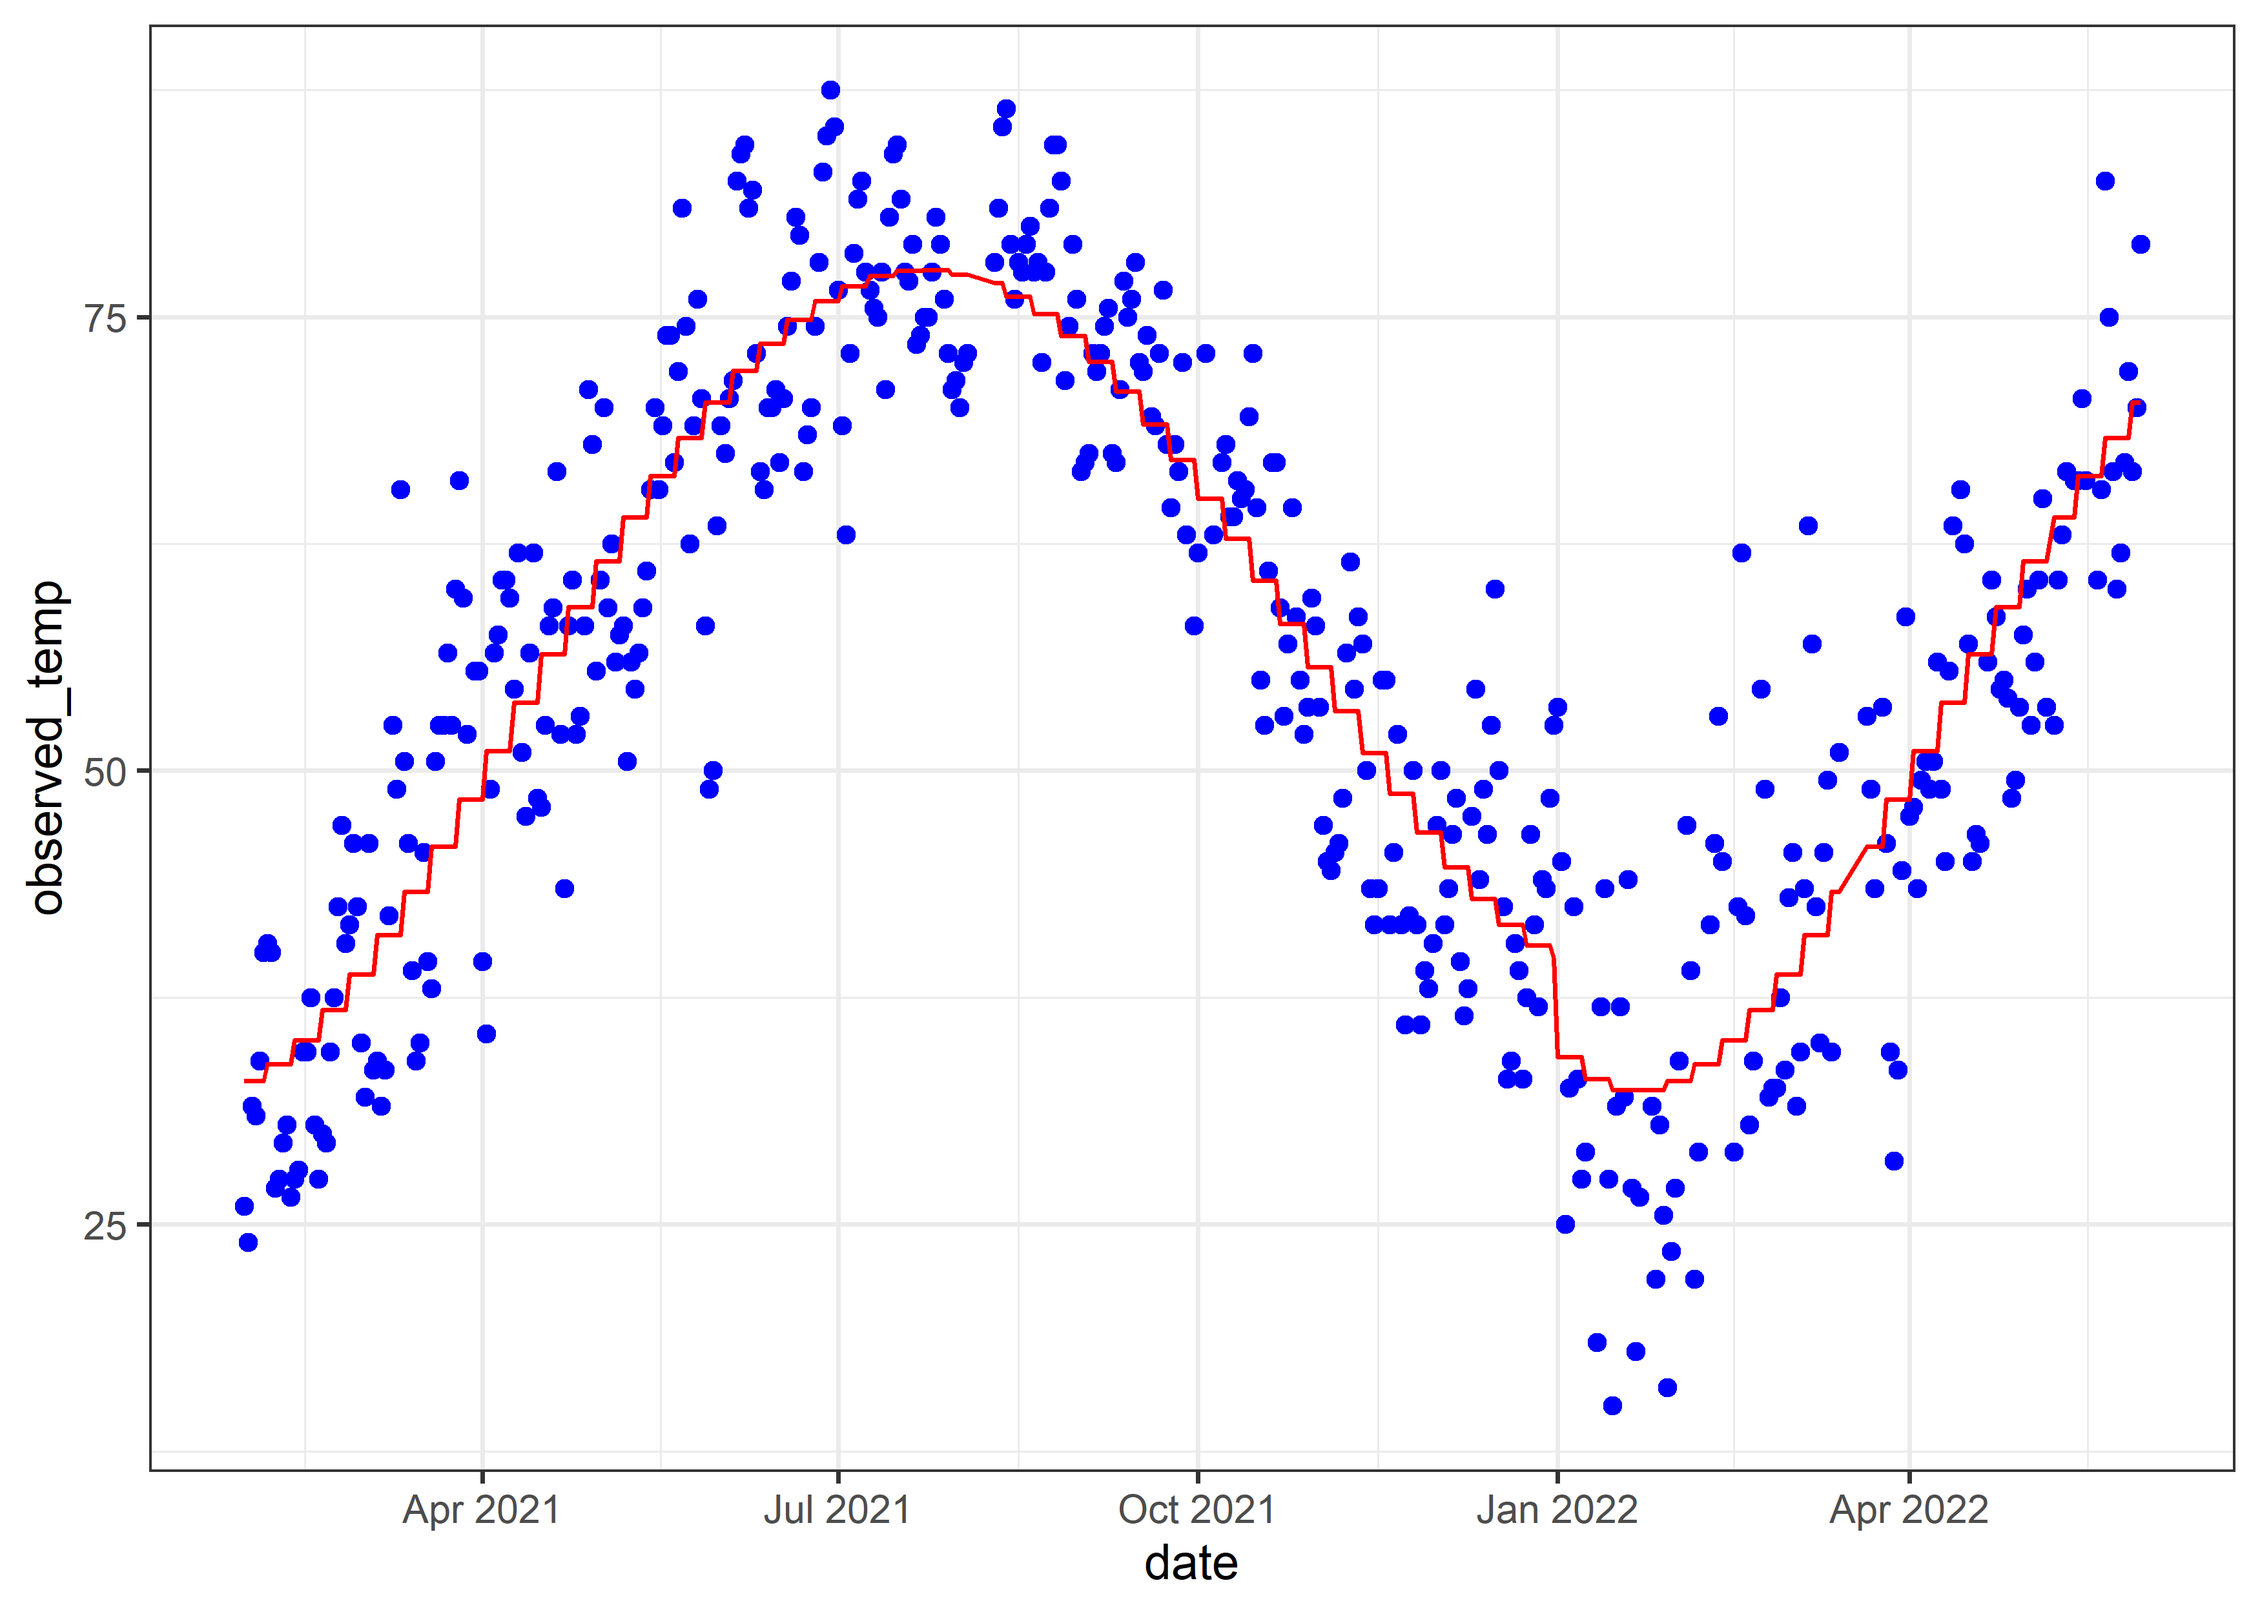
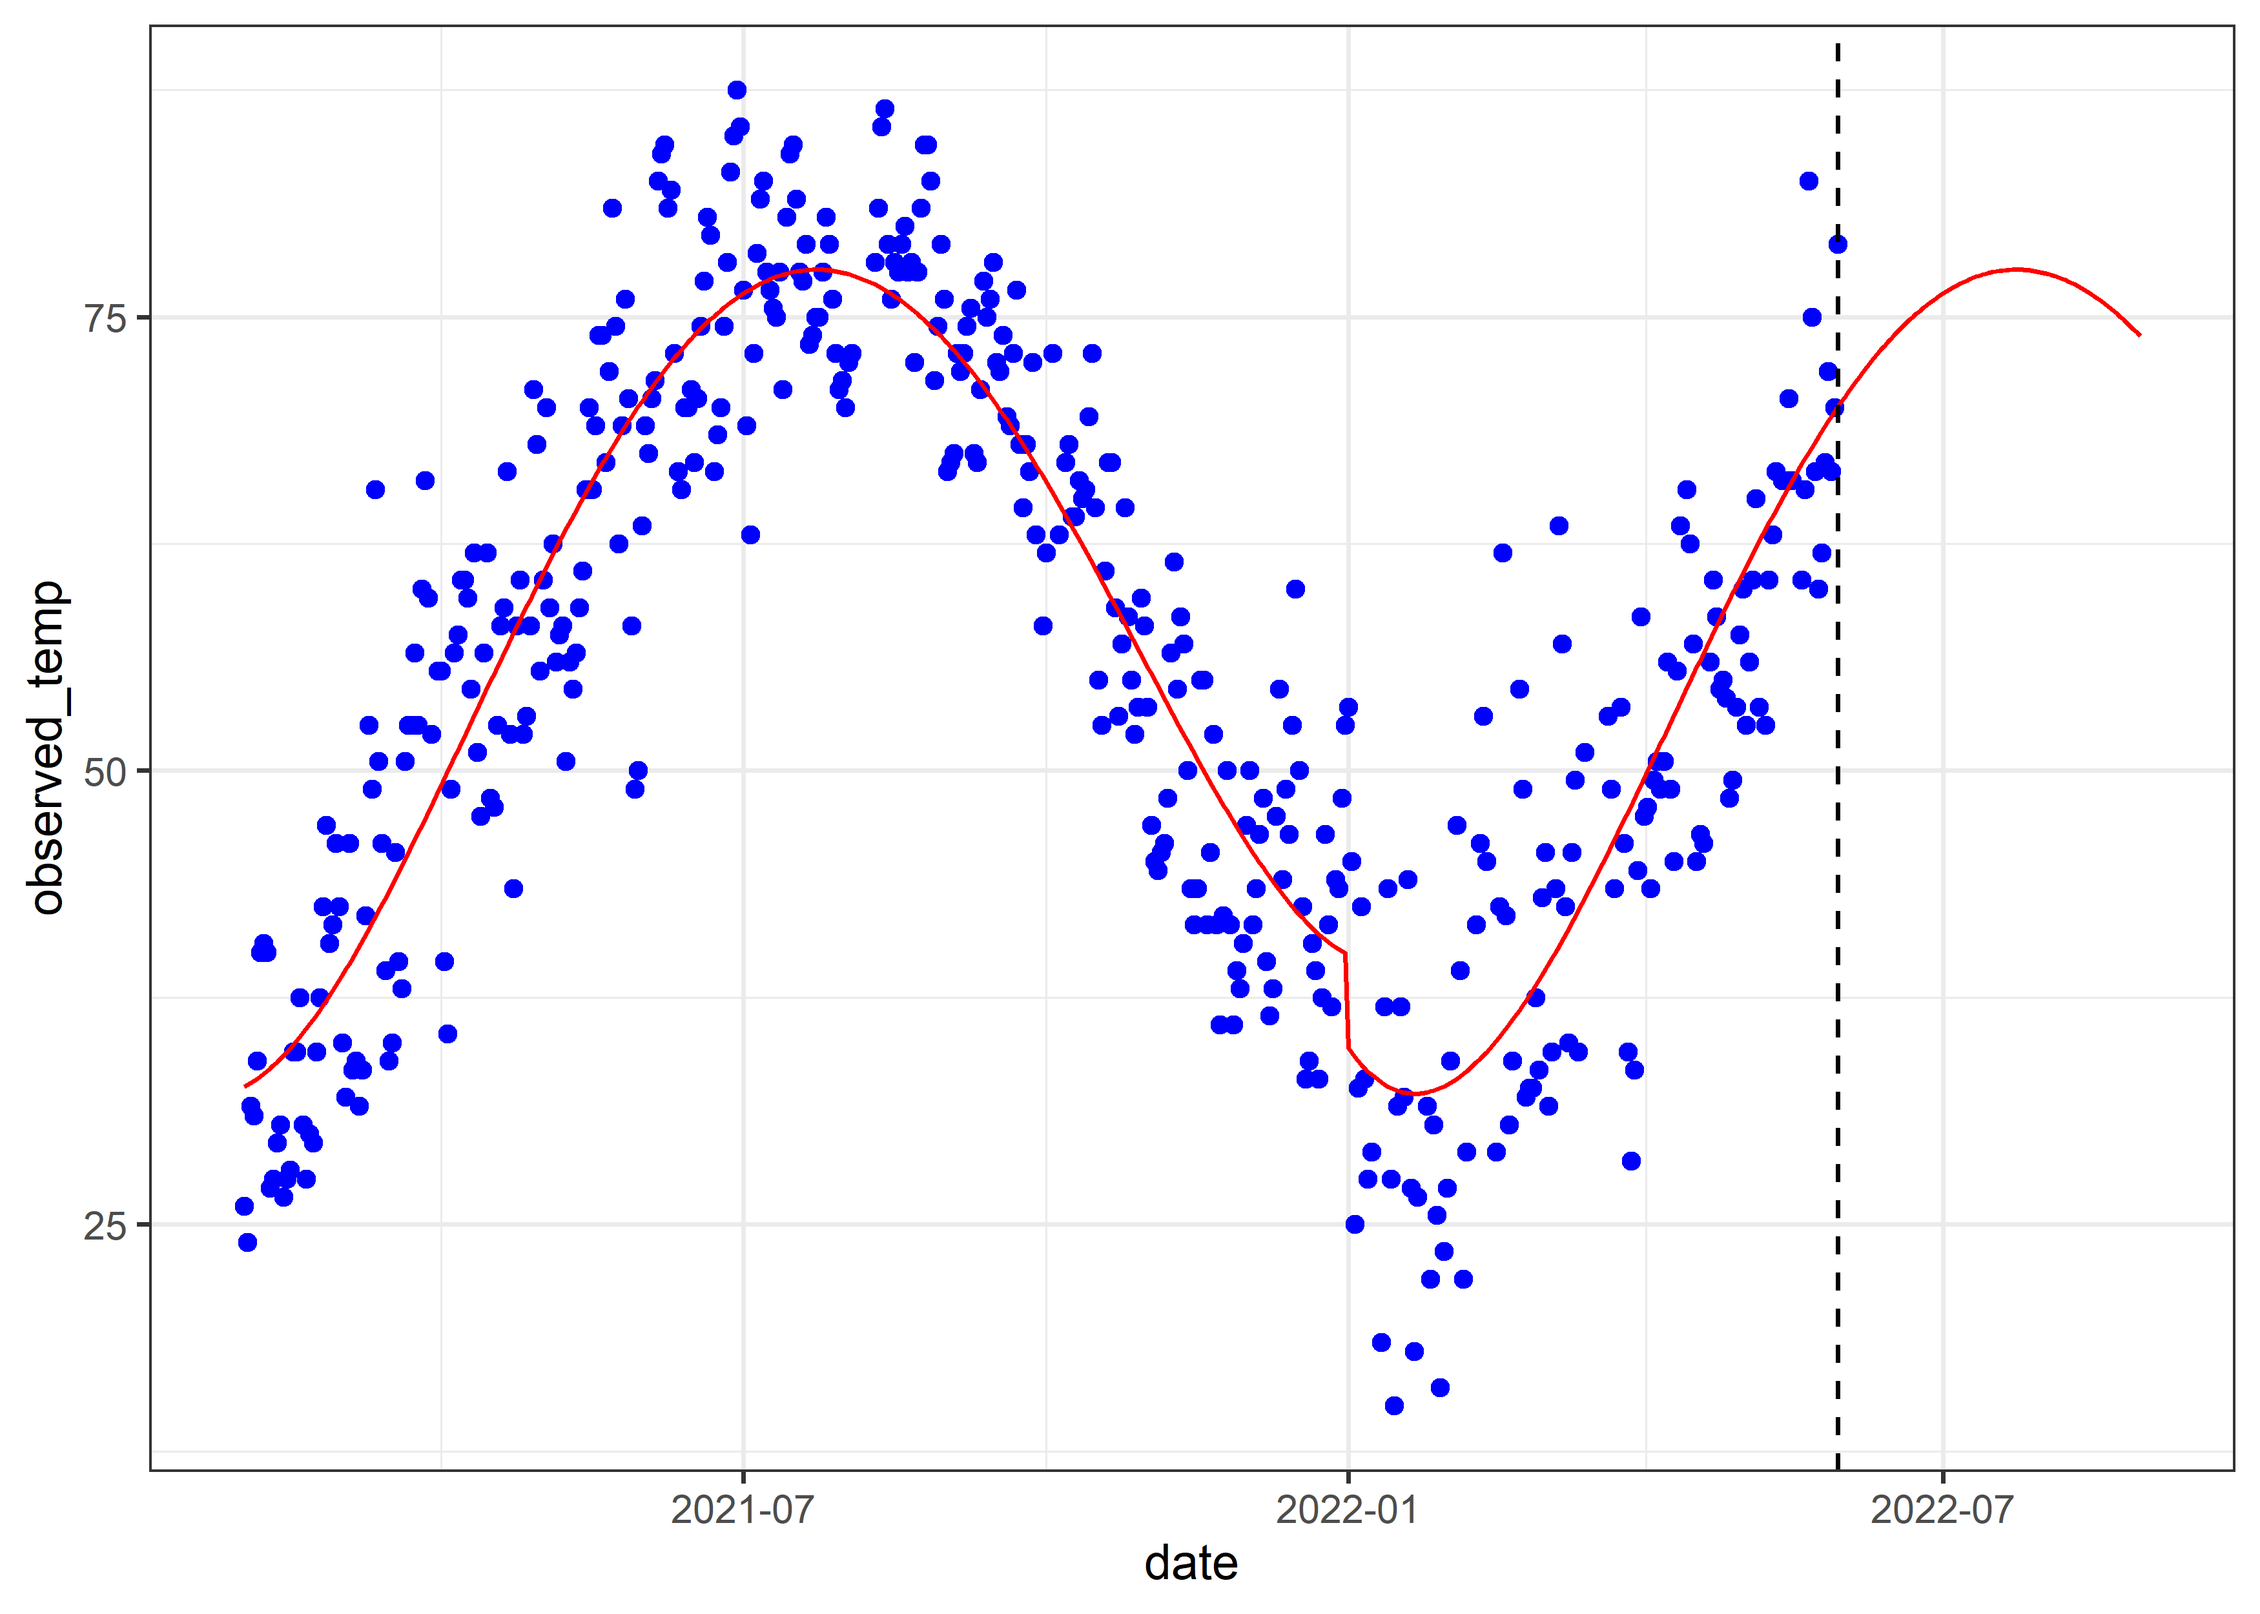
predictions

diff --git a/12-20-22/Weather-Forecasts.md b/12-20-22/Weather-Forecasts.md
@@ -481,11 +481,13 @@ sarima.for(nyctz, 10, 1,1,3)
 
 ``` r
 nycseries <- nycseries %>% 
-  mutate(week = week(date))
+  mutate(day = yday(date))
+
+fdates <- seq(as.Date("2022-05-30"), as.Date("2022-08-30"), by = 1) # future dates
 ```
 
 ``` r
-gam_mod <- mgcv::gam(observed_temp ~ s(week), 
+gam_mod <- mgcv::gam(observed_temp ~ s(day), 
                      data = nycseries, 
                      method = "REML")
 summary(gam_mod)
@@ -496,29 +498,33 @@ summary(gam_mod)
     ## Link function: identity 
     ## 
     ## Formula:
-    ## observed_temp ~ s(week)
+    ## observed_temp ~ s(day)
     ## 
     ## Parametric coefficients:
     ##             Estimate Std. Error t value Pr(>|t|)    
-    ## (Intercept)  55.5565     0.3339   166.4   <2e-16 ***
+    ## (Intercept)  55.5565     0.3311   167.8   <2e-16 ***
     ## ---
     ## Signif. codes:  0 '***' 0.001 '**' 0.01 '*' 0.05 '.' 0.1 ' ' 1
     ## 
     ## Approximate significance of smooth terms:
-    ##           edf Ref.df     F p-value    
-    ## s(week) 7.891  8.673 227.8  <2e-16 ***
+    ##          edf Ref.df     F p-value    
+    ## s(day) 7.939  8.702 231.3  <2e-16 ***
     ## ---
     ## Signif. codes:  0 '***' 0.001 '**' 0.01 '*' 0.05 '.' 0.1 ' ' 1
     ## 
-    ## R-sq.(adj) =  0.814   Deviance explained = 81.8%
-    ## -REML = 1535.3  Scale est. = 50.272    n = 451
+    ## R-sq.(adj) =  0.817   Deviance explained = 82.1%
+    ## -REML = 1531.8  Scale est. = 49.456    n = 451
 
 ``` r
 nycseries %>% 
   mutate(pred = gam_mod$fitted.values) %>% 
+  bind_rows(data.frame(date = fdates)) %>% 
+  mutate(day = ifelse(is.na(day), yday(date), day),
+         pred = ifelse(is.na(pred), predict(gam_mod, cur_data()), pred)) %>% 
   ggplot(aes(date)) +
   geom_point(aes(y = observed_temp), color = "blue") +
-  geom_line(aes(y = pred), color = "red")
+  geom_line(aes(y = pred), color = "red") +
+  geom_vline(xintercept = as.Date("2022-05-30"), linetype = "dashed")
 ```
 
 ![](Weather-Forecasts_files/figure-gfm/unnamed-chunk-24-1.png)<!-- -->
@@ -526,40 +532,44 @@ nycseries %>%
 ### Polynomial Model
 
 ``` r
-lm_mod <- lm(observed_temp ~ I(week^4) + I(week^3) + I(week^2) + week, data = nycseries)
+lm_mod <- lm(observed_temp ~ I(day^4) + I(day^3) + I(day^2) + day, data = nycseries)
 
 summary(lm_mod)
 ```
 
     ## 
     ## Call:
-    ## lm(formula = observed_temp ~ I(week^4) + I(week^3) + I(week^2) + 
-    ##     week, data = nycseries)
+    ## lm(formula = observed_temp ~ I(day^4) + I(day^3) + I(day^2) + 
+    ##     day, data = nycseries)
     ## 
     ## Residuals:
-    ##      Min       1Q   Median       3Q      Max 
-    ## -21.2847  -5.2725  -0.4112   4.6680  26.8416 
+    ##     Min      1Q  Median      3Q     Max 
+    ## -20.797  -5.371  -0.206   4.679  26.444 
     ## 
     ## Coefficients:
     ##               Estimate Std. Error t value Pr(>|t|)    
-    ## (Intercept)  3.615e+01  2.125e+00  17.007  < 2e-16 ***
-    ## I(week^4)    1.017e-04  1.016e-05  10.012  < 2e-16 ***
-    ## I(week^3)   -1.184e-02  1.084e-03 -10.921  < 2e-16 ***
-    ## I(week^2)    3.863e-01  3.843e-02  10.052  < 2e-16 ***
-    ## week        -2.300e+00  5.130e-01  -4.484 9.32e-06 ***
+    ## (Intercept)  3.500e+01  1.920e+00  18.231  < 2e-16 ***
+    ## I(day^4)     4.231e-08  4.203e-09  10.068  < 2e-16 ***
+    ## I(day^3)    -3.393e-05  3.088e-06 -10.988  < 2e-16 ***
+    ## I(day^2)     7.542e-03  7.508e-04  10.045  < 2e-16 ***
+    ## day         -2.770e-01  6.829e-02  -4.056 5.89e-05 ***
     ## ---
     ## Signif. codes:  0 '***' 0.001 '**' 0.01 '*' 0.05 '.' 0.1 ' ' 1
     ## 
-    ## Residual standard error: 7.191 on 446 degrees of freedom
-    ## Multiple R-squared:  0.8107, Adjusted R-squared:  0.809 
-    ## F-statistic: 477.5 on 4 and 446 DF,  p-value: < 2.2e-16
+    ## Residual standard error: 7.133 on 446 degrees of freedom
+    ## Multiple R-squared:  0.8137, Adjusted R-squared:  0.8121 
+    ## F-statistic: 487.1 on 4 and 446 DF,  p-value: < 2.2e-16
 
 ``` r
 nycseries %>% 
   mutate(pred = predict(lm_mod, .)) %>% 
+  bind_rows(data.frame(date = fdates)) %>% 
+  mutate(day = ifelse(is.na(day), yday(date), day),
+         pred = ifelse(is.na(pred), predict(lm_mod, cur_data()), pred)) %>% 
   ggplot(aes(date)) +
   geom_point(aes(y = observed_temp), color = "blue") +
-  geom_line(aes(y = pred), color = "red")
+  geom_line(aes(y = pred), color = "red") +
+  geom_vline(xintercept = as.Date("2022-05-30"), linetype = "dashed")
 ```
 
 ![](Weather-Forecasts_files/figure-gfm/unnamed-chunk-26-1.png)<!-- -->
